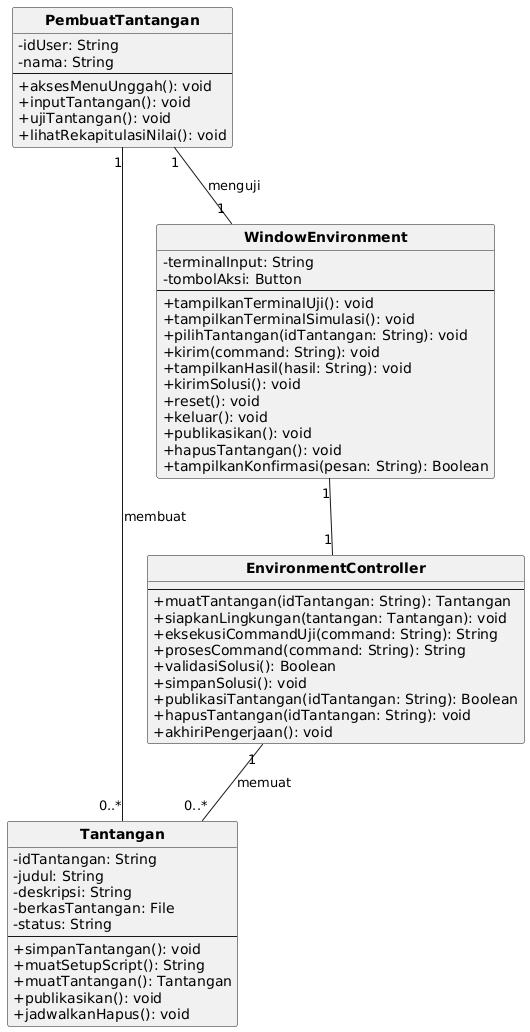
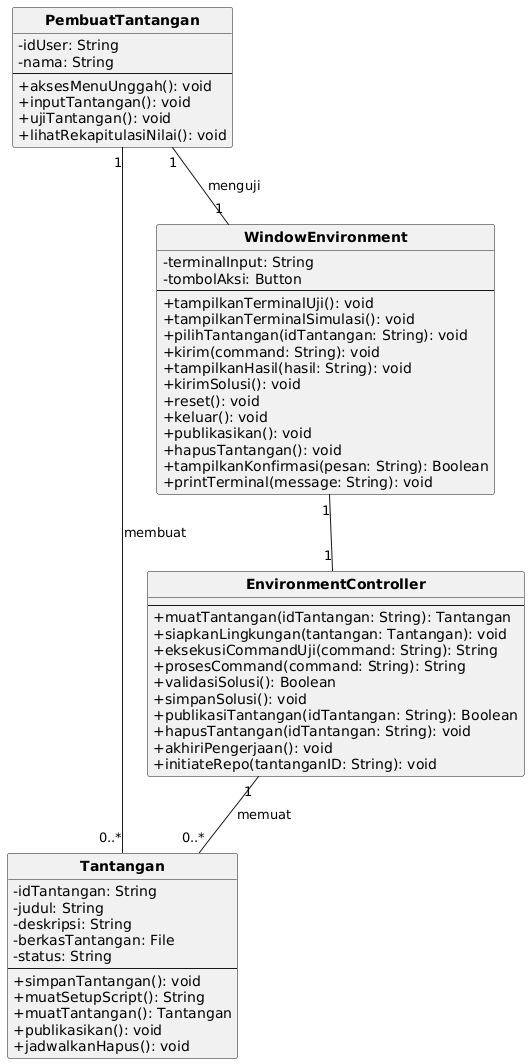
Update milestone 7 class diagrams
Add validation and terminal/repository operations to the class diagrams and DPPL, and log completion of the use cases.

diff --git a/docs/M7/K03_G03_DPPL.md b/docs/M7/K03_G03_DPPL.md
@@ -386,10 +386,10 @@ Tabel 4.1. Daftar Kelas Perancangan Keseluruhan
 | C01 | PembuatTantangan | - idUser: String<br>- nama: String | + aksesMenuUnggah(): void<br>+ inputTantangan(): void<br>+ ujiTantangan(): void<br>+ lihatRekapitulasiNilai(): void |
 | C02 | Pelajar | - idUser: String<br>- nama: String | + pilihTantangan(): void<br>+ kirimSolusi(): void<br>+ aksesRiwayat(): void<br>+ ulangiTantangan(): void |
 | C03 | Tantangan | - idTantangan: String<br>- judul: String<br>- deskripsi: String<br>- berkasTantangan: File<br>- status: String | + simpanTantangan(): void<br>+ muatSetupScript(): String<br>+ muatTantangan(): Tantangan<br>+ publikasikan(): void<br>+ jadwalkanHapus(): void |
-| C04 | WindowEdit | - formUnggah: Form | + tampilkanForm(): void<br>+ kirimBerkas(berkas: File): void<br>+ tampilkanPesan(pesan: String): void |
+| C04 | WindowEdit | - formUnggah: Form | + tampilkanForm(): void<br>+ kirimBerkas(berkas: File): void<br>+ tampilkanPesan(pesan: String): void<br>+ periksaValiditas(): Boolean |
 | C05 | EditController | - | + ambilDaftarTantangan(idUser: String): List&lt;Tantangan&gt;<br>+ validasiBerkas(berkas: File): Boolean<br>+ simpanTantangan(berkas: File): Boolean |
-| C06 | WindowEnvironment | - terminalInput: String<br>- tombolAksi: Button | + tampilkanTerminalUji(): void<br>+ tampilkanTerminalSimulasi(): void<br>+ pilihTantangan(idTantangan: String): void<br>+ kirim(command: String): void<br>+ tampilkanHasil(hasil: String): void<br>+ kirimSolusi(): void<br>+ reset(): void<br>+ keluar(): void<br>+ publikasikan(): void<br>+ hapusTantangan(): void<br>+ tampilkanKonfirmasi(pesan: String): Boolean |
-| C07 | EnvironmentController | - | + muatTantangan(idTantangan: String): Tantangan<br>+ siapkanLingkungan(tantangan: Tantangan): void<br>+ eksekusiCommandUji(command: String): String<br>+ prosesCommand(command: String): String<br>+ validasiSolusi(): Boolean<br>+ simpanSolusi(): void<br>+ publikasiTantangan(idTantangan: String): Boolean<br>+ hapusTantangan(idTantangan: String): void<br>+ akhiriPengerjaan(): void |
+| C06 | WindowEnvironment | - terminalInput: String<br>- tombolAksi: Button | + tampilkanTerminalUji(): void<br>+ tampilkanTerminalSimulasi(): void<br>+ pilihTantangan(idTantangan: String): void<br>+ kirim(command: String): void<br>+ tampilkanHasil(hasil: String): void<br>+ kirimSolusi(): void<br>+ reset(): void<br>+ keluar(): void<br>+ publikasikan(): void<br>+ hapusTantangan(): void<br>+ tampilkanKonfirmasi(pesan: String): Boolean<br>+ printTerminal(message: String): void |
+| C07 | EnvironmentController | - | + muatTantangan(idTantangan: String): Tantangan<br>+ siapkanLingkungan(tantangan: Tantangan): void<br>+ eksekusiCommandUji(command: String): String<br>+ prosesCommand(command: String): String<br>+ validasiSolusi(): Boolean<br>+ simpanSolusi(): void<br>+ publikasiTantangan(idTantangan: String): Boolean<br>+ hapusTantangan(idTantangan: String): void<br>+ akhiriPengerjaan(): void<br>+ initiateRepo(tantanganID: String): void |
 | C08 | WindowRiwayat | - daftarRiwayatTampilan: List&lt;RiwayatTantangan&gt; | + tampilkanDaftarRiwayat(): void<br>+ tampilkanDetail(riwayat: RiwayatTantangan): void<br>+ kerjakanUlang(): void<br>+ tampilkanKonfirmasi(pesan: String): Boolean |
 | C09 | RiwayatTantangan | - idRiwayat: String<br>- statusPengerjaan: String<br>- skor: Integer<br>- riwayatKonsol: String | + simpanPekerjaan(): void<br>+ ambilDataRiwayat(): List&lt;RiwayatTantangan&gt; |
 

diff --git a/docs/K03_G03_Logbook.md b/docs/K03_G03_Logbook.md
@@ -114,5 +114,6 @@
 | Tanggal | Nama Anggota | Deskripsi Pekerjaan | Durasi (Jam) | Status | Kendala / *Blocker* | 
 | :--- | :--- | :--- | :--- | :--- | :--- |
 | *19-10-2026* | *Ananda Aulia Nurramadhan* | *Menyesuaikan template dengan informasi yang sudah ada dari milestone terdahulu* | *0,75* | *Done* | *-* |
+| *21-10-2026* | *Zidane Uland Fakhry* | *Melengkapi semua use case* | *3-4* | *Done* | *Susah untuk menyusun use case* |
 
 **Catatan/Evaluasi Milestone 7:** -
